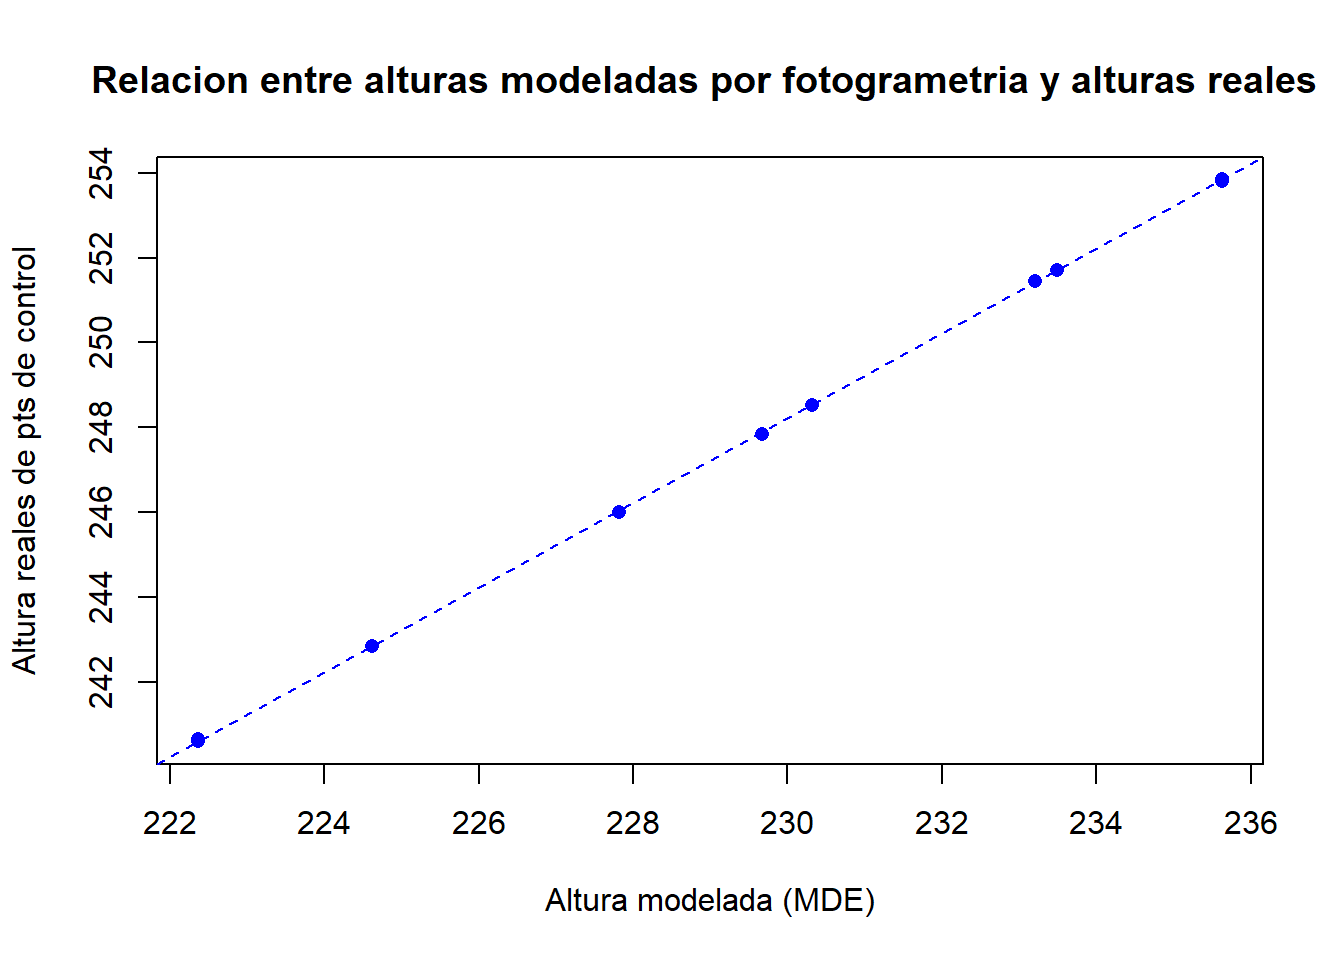
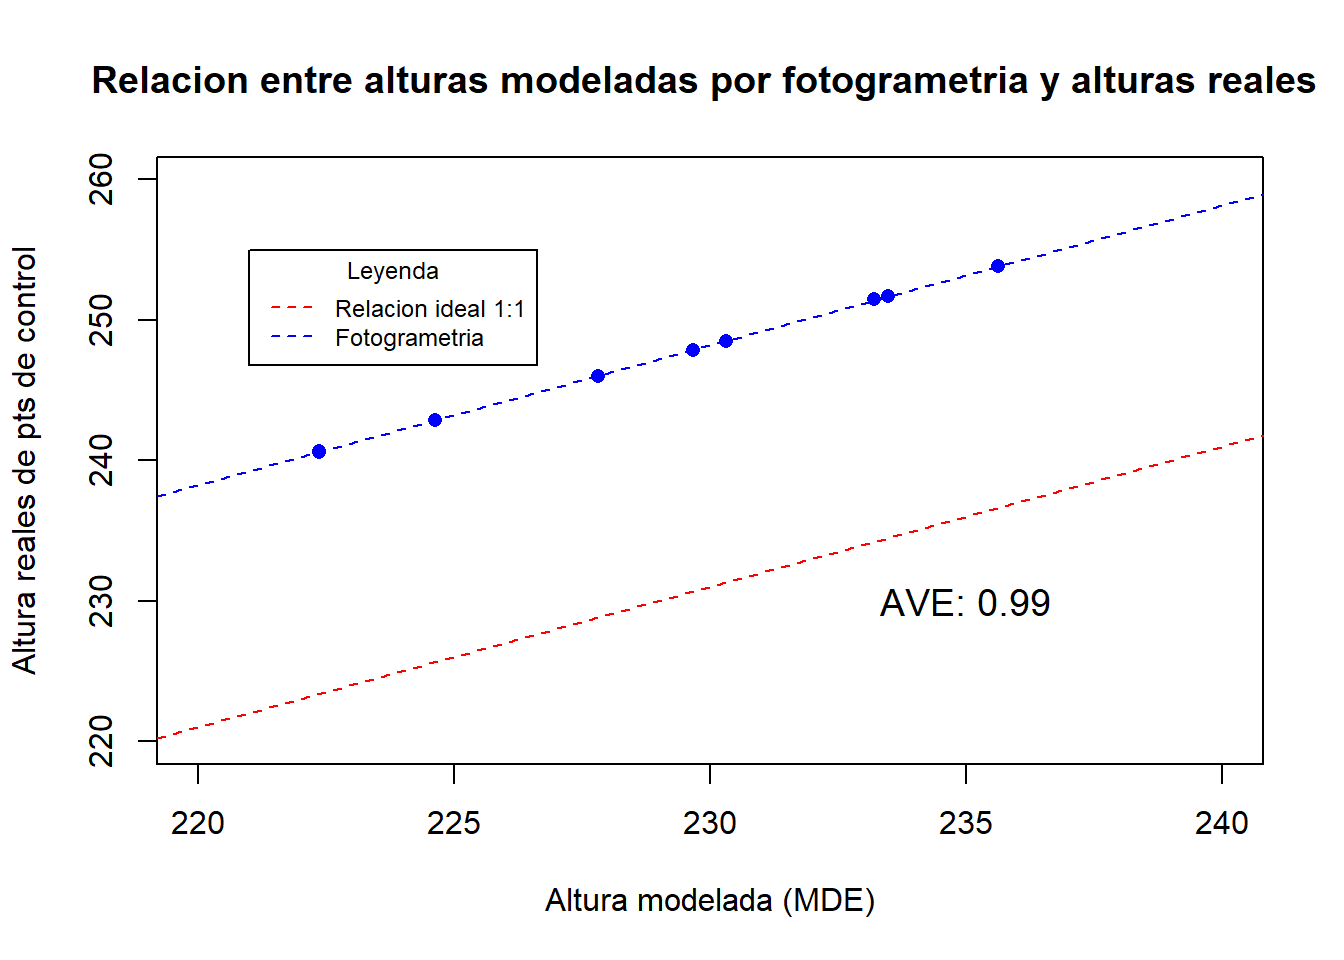
corregir AVE de grafico

diff --git a/content/post/2020-05-24-argentina.html b/content/post/2020-05-24-argentina.html
@@ -136,7 +136,9 @@ crs(puntos_sp);</code></pre>
 <li>Resultados de los cálculos de residuos o errores en las alturas:</li>
 </ul>
 <pre><code>##           Metodos        ME      MAE      MSE     RMSE  Err Q75        R2
-## 75% Fotogrametria -18.22155 18.22155 332.0257 18.22157 18.23891 0.9999706</code></pre>
+## 75% Fotogrametria -18.22155 18.22155 332.0257 18.22157 18.23891 0.9999706
+##           AVE
+## 75% -13.28735</code></pre>
 <ul>
 <li><p>Gráfico de comparacion: <img src="/post/2020-05-24-argentina_files/figure-html/unnamed-chunk-15-1.png" width="672" /></p></li>
 <li><p>Gráfico de magnitud de residuos espaciales: <img src="/post/2020-05-24-argentina_files/figure-html/unnamed-chunk-16-1.png" width="672" /></p></li>

diff --git a/public/2020/05/24/argentina/index.html b/public/2020/05/24/argentina/index.html
@@ -204,7 +204,9 @@ crs(puntos_sp);</code></pre>
 <li>Resultados de los cálculos de residuos o errores en las alturas:</li>
 </ul>
 <pre><code>##           Metodos        ME      MAE      MSE     RMSE  Err Q75        R2
-## 75% Fotogrametria -18.22155 18.22155 332.0257 18.22157 18.23891 0.9999706</code></pre>
+## 75% Fotogrametria -18.22155 18.22155 332.0257 18.22157 18.23891 0.9999706
+##           AVE
+## 75% -13.28735</code></pre>
 <ul>
 <li><p>Gráfico de comparacion: <img src="/post/2020-05-24-argentina_files/figure-html/unnamed-chunk-15-1.png" width="672" /></p></li>
 <li><p>Gráfico de magnitud de residuos espaciales: <img src="/post/2020-05-24-argentina_files/figure-html/unnamed-chunk-16-1.png" width="672" /></p></li>
